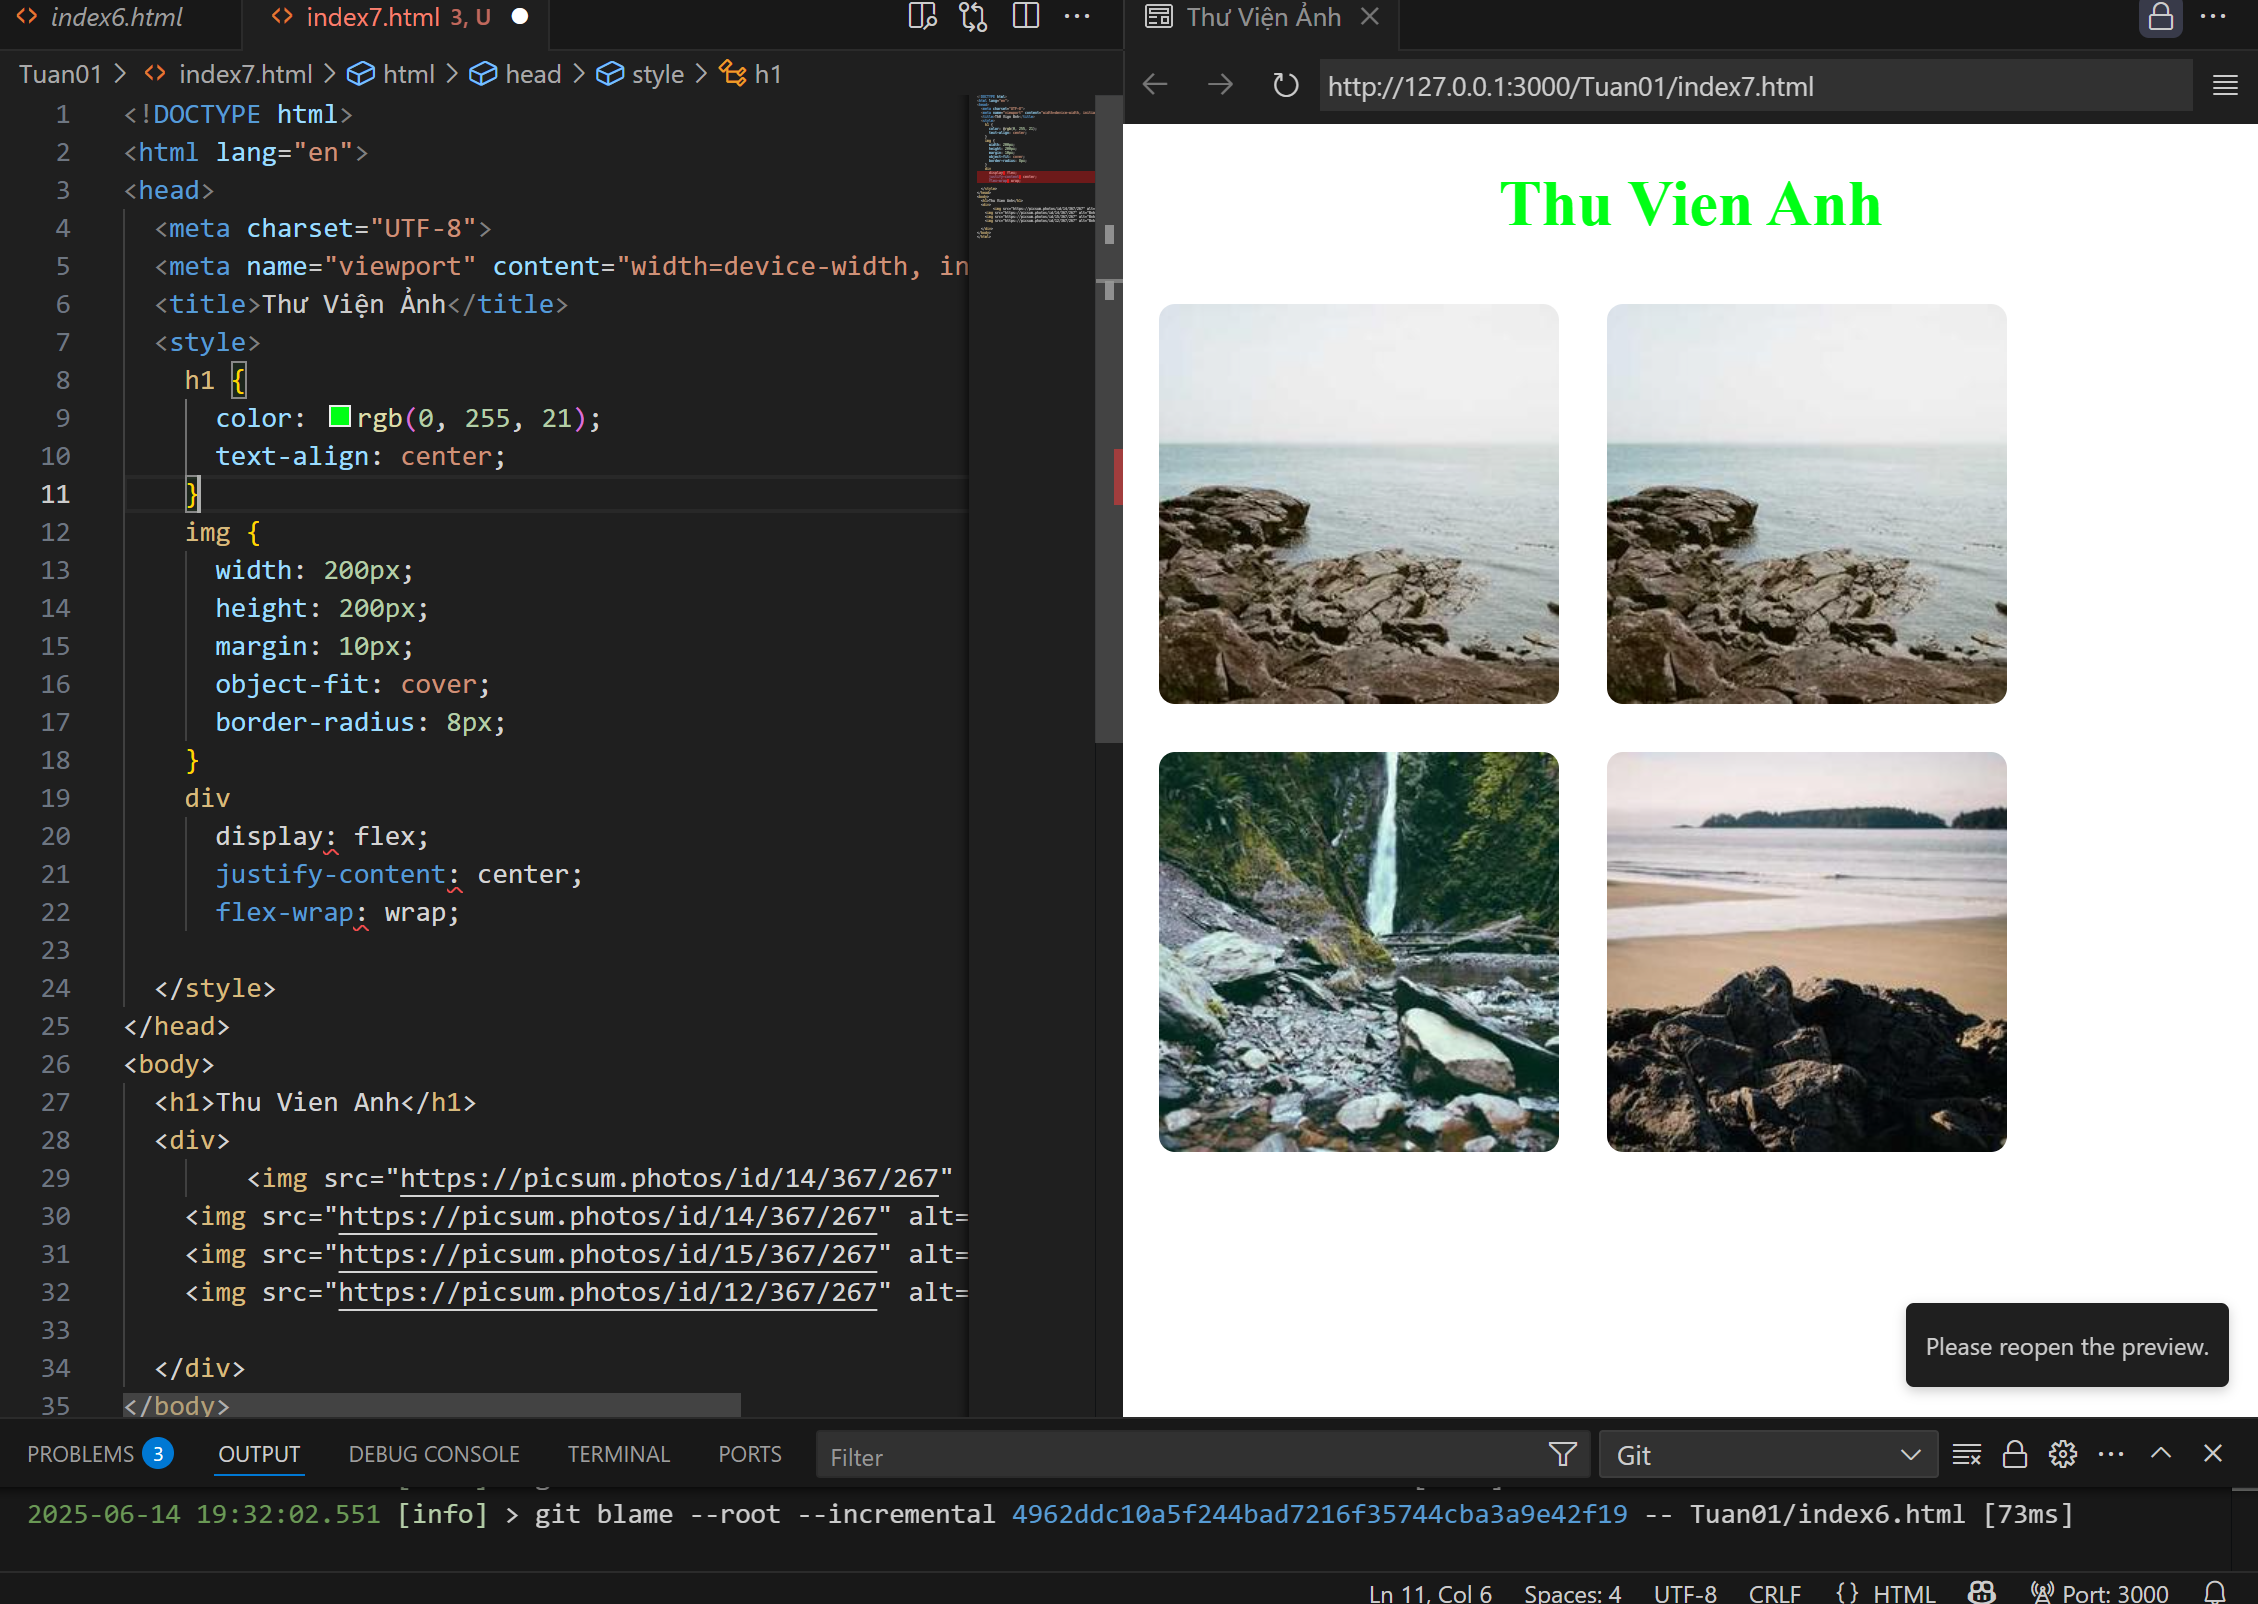
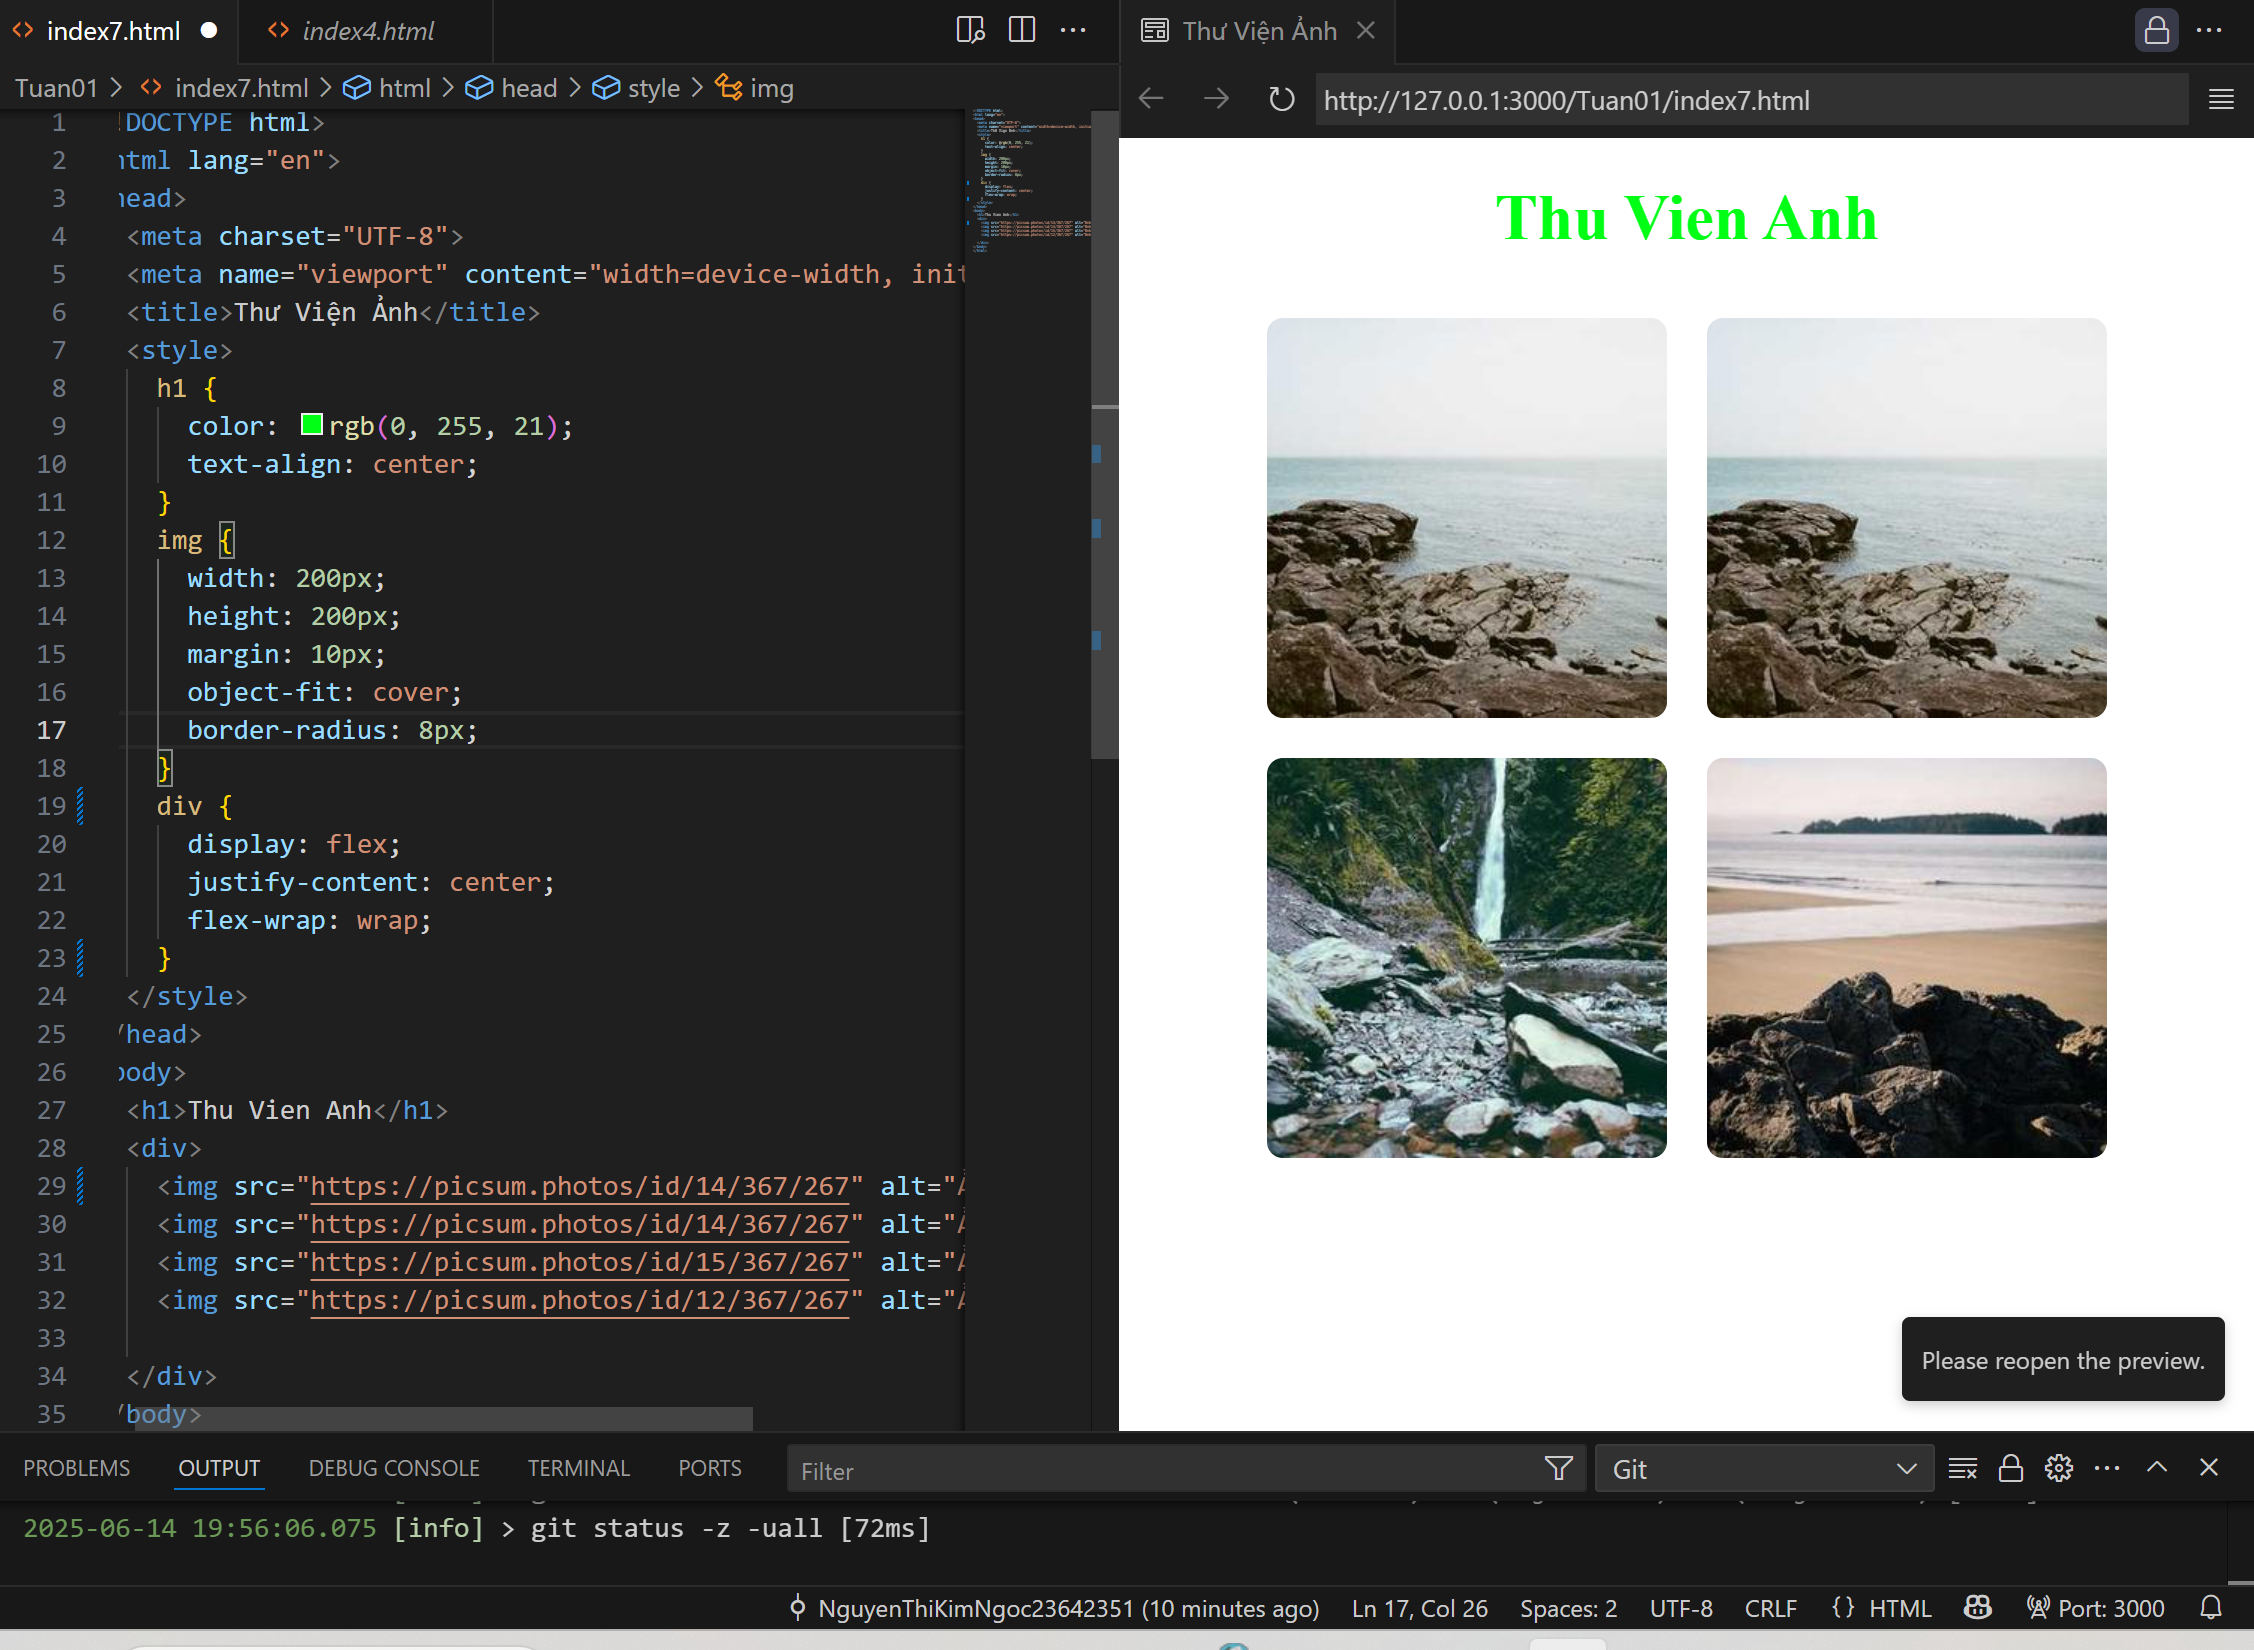
add file bai7 - mc

diff --git a/Tuan01/index7.html b/Tuan01/index7.html
@@ -16,21 +16,21 @@
       object-fit: cover;
       border-radius: 8px;
     }
-    div 
+    div {
       display: flex;
       justify-content: center;
       flex-wrap: wrap;
-
+    }
   </style>
 </head>
 <body>
   <h1>Thu Vien Anh</h1>
   <div>
-        <img src="https://picsum.photos/id/14/367/267" alt="Ảnh 2">
+    <img src="https://picsum.photos/id/14/367/267" alt="Ảnh 2">
     <img src="https://picsum.photos/id/14/367/267" alt="Ảnh 2">
     <img src="https://picsum.photos/id/15/367/267" alt="Ảnh 3">
     <img src="https://picsum.photos/id/12/367/267" alt="Ảnh 4">
-        
+  
   </div>
 </body>
 </html>
